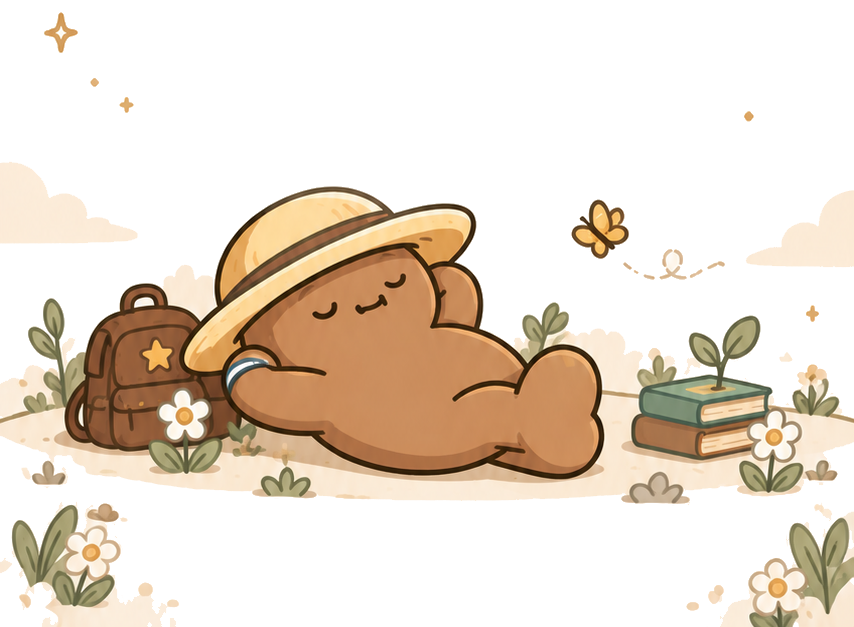
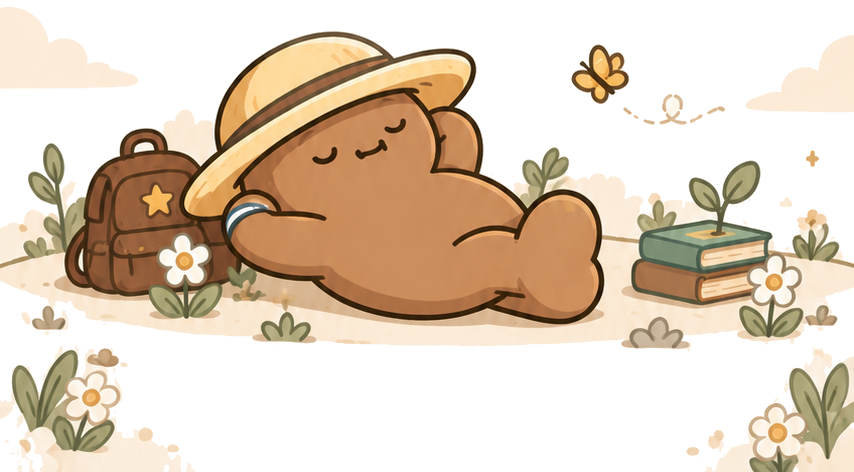
Keep the paywall mascot in frame and drop the header restore.
Restore Purchases stays in the footer only. The rest scene is cropped and reserved between the plans and the gold unlock button so the mascot stays fully visible.

diff --git a/src/features/subscription/screens/HardPaywallScreen.tsx b/src/features/subscription/screens/HardPaywallScreen.tsx
@@ -45,8 +45,7 @@ export function HardPaywallScreen() {
   const router = useRouter();
   const { isAuthenticated } = useAuth();
   const unlockNextStep = getPaywallUnlockNextStep(isAuthenticated);
-  const { available, packages, unexpectedTrial, purchasePackage, restorePurchases } =
-    useSubscription();
+  const { packages, unexpectedTrial, purchasePackage, restorePurchases } = useSubscription();
   const plans = useMemo(() => buildPaywallPlans(packages), [packages]);
   const [selectedId, setSelectedId] = useState<string | null>(
     () => peekPaywallUnlock()?.packageIdentifier ?? ANNUAL_PACKAGE_ID,
@@ -133,22 +132,6 @@ export function HardPaywallScreen() {
         style={styles.sky}
       />
       <SafeAreaView edges={['top', 'right', 'left']} style={styles.safe}>
-        <View style={styles.header}>
-          <View style={styles.headerSpacer} />
-          <Pressable
-            accessibilityRole="button"
-            accessibilityLabel="Restore Purchases"
-            disabled={busy !== null}
-            onPress={restore}
-            hitSlop={spacing.sm}
-            style={({ pressed }) => [styles.headerRestore, pressed && styles.pressed]}
-          >
-            <Text allowFontScaling maxFontSizeMultiplier={1.3} style={styles.headerRestoreLabel}>
-              {busy === 'restore' ? 'Restoring…' : 'Restore Purchases'}
-            </Text>
-          </Pressable>
-        </View>
-
         <ScrollView
           style={styles.scroll}
           contentContainerStyle={styles.scrollContent}
@@ -205,20 +188,19 @@ export function HardPaywallScreen() {
               ))}
             </View>
           )}
-
-          <PaywallRestMascot />
         </ScrollView>
 
-        <View style={{ paddingBottom: Math.max(insets.bottom, spacing.sm) + CTA_SAFE_AREA_GAP }}>
+        <PaywallRestMascot />
+
+        <View
+          style={[
+            styles.footer,
+            { paddingBottom: Math.max(insets.bottom, spacing.sm) + CTA_SAFE_AREA_GAP },
+          ]}
+        >
           {message ? (
             <Text style={styles.status} accessibilityLiveRegion="polite">
               {message}
-            </Text>
-          ) : packages.length === 0 && !unexpectedTrial ? (
-            <Text style={styles.status} accessibilityLiveRegion="polite">
-              {available
-                ? 'subscription options aren’t ready yet. try again in a moment.'
-                : 'Test Store purchases need an iOS development build. this preview cannot take payment.'}
             </Text>
           ) : null}
           <PrimaryButton
@@ -343,25 +325,6 @@ const styles = StyleSheet.create({
     flex: 1,
     paddingHorizontal: spacing.lg,
   },
-  header: {
-    minHeight: spacing.hitTarget,
-    flexDirection: 'row',
-    alignItems: 'center',
-    justifyContent: 'space-between',
-  },
-  headerSpacer: {
-    width: spacing.hitTarget,
-  },
-  headerRestore: {
-    minHeight: spacing.hitTarget,
-    justifyContent: 'center',
-    paddingLeft: spacing.sm,
-  },
-  headerRestoreLabel: {
-    ...textVariants.caption,
-    color: colors.text.secondary,
-    textDecorationLine: 'underline',
-  },
   scroll: {
     flex: 1,
     minHeight: 0,
@@ -374,7 +337,7 @@ const styles = StyleSheet.create({
   sprout: {
     flexDirection: 'row',
     alignItems: 'center',
-    marginTop: spacing.xs,
+    marginTop: spacing.md,
   },
   sproutLeaf: {
     marginLeft: -spacing.xxs,
@@ -553,6 +516,9 @@ const styles = StyleSheet.create({
     color: colors.accent.gold,
     fontWeight: fontWeights.semibold,
   },
+  footer: {
+    zIndex: 1,
+  },
   status: {
     ...textVariants.caption,
     color: colors.text.secondary,
@@ -566,6 +532,7 @@ const styles = StyleSheet.create({
     justifyContent: 'center',
     flexWrap: 'wrap',
     gap: spacing.xs,
+    paddingTop: spacing.xs,
   },
   legalLink: {
     ...textVariants.caption,

diff --git a/src/components/ui/Button/PrimaryButton.tsx b/src/components/ui/Button/PrimaryButton.tsx
@@ -31,10 +31,11 @@ export function PrimaryButton({
   tone = 'primary',
 }: PrimaryButtonProps) {
   const isGold = tone === 'gold';
-  const arrowColor = disabled
-    ? colors.action.primaryTextDisabled
-    : isGold
-      ? colors.action.saveText
+  const showDepth = isGold || !disabled;
+  const arrowColor = isGold
+    ? colors.action.saveText
+    : disabled
+      ? colors.action.primaryTextDisabled
       : colors.action.primaryText;
   return (
     <Pressable
@@ -59,10 +60,10 @@ export function PrimaryButton({
 
         return (
           <>
-            {disabled ? null : (
+            {showDepth ? (
               <View pointerEvents="none" style={[styles.lip, isGold ? styles.lipGold : null]} />
-            )}
-            {disabled ? null : (
+            ) : null}
+            {showDepth ? (
               <View
                 pointerEvents="none"
                 style={[
@@ -71,11 +72,17 @@ export function PrimaryButton({
                   isPressed ? styles.shadowPressed : null,
                 ]}
               />
-            )}
+            ) : null}
             <View
               style={[
                 styles.face,
-                disabled ? styles.faceDisabled : isGold ? styles.faceGold : styles.faceEnabled,
+                disabled
+                  ? isGold
+                    ? styles.faceGoldDisabled
+                    : styles.faceDisabled
+                  : isGold
+                    ? styles.faceGold
+                    : styles.faceEnabled,
                 isPressed ? (isGold ? styles.faceGoldPressed : styles.facePressed) : null,
               ]}
             >
@@ -84,7 +91,13 @@ export function PrimaryButton({
                 maxFontSizeMultiplier={1.4}
                 style={[
                   styles.label,
-                  disabled ? styles.labelDisabled : isGold ? styles.labelGold : styles.labelEnabled,
+                  disabled
+                    ? isGold
+                      ? styles.labelGold
+                      : styles.labelDisabled
+                    : isGold
+                      ? styles.labelGold
+                      : styles.labelEnabled,
                 ]}
               >
                 {label}
@@ -150,6 +163,9 @@ const styles = StyleSheet.create({
     backgroundColor: colors.action.primaryBackground,
   },
   faceGold: {
+    backgroundColor: colors.action.saveBackground,
+  },
+  faceGoldDisabled: {
     backgroundColor: colors.action.saveBackground,
   },
   faceDisabled: {

diff --git a/src/features/subscription/components/PaywallRestMascot.tsx b/src/features/subscription/components/PaywallRestMascot.tsx
@@ -1,22 +1,25 @@
 import { Image, StyleSheet, useWindowDimensions, View } from 'react-native';
 
 import { spacing } from '@/design-system';
+import { PAYWALL_MASCOT_ART } from '@/features/onboarding/data/onboardingAssets';
 
-const REST_MASCOT = require('../../../../assets/images/onboarding/paywall-mascot-rest.png');
 const ART_WIDTH = 854;
-const ART_HEIGHT = 627;
+const ART_HEIGHT = 472;
 const ART_ASPECT = ART_WIDTH / ART_HEIGHT;
-const MAX_HEIGHT = 200;
+const HEIGHT_FRACTION = 0.28;
+const MAX_HEIGHT = 228;
+const MIN_HEIGHT = 168;
 
 /**
- * Sleeping mascot between the paywall plans and the unlock button.
+ * Sleeping mascot reserved between the paywall plans and the unlock button.
+ * Sized from the viewport so the full rest scene stays in frame.
  */
 export function PaywallRestMascot() {
-  const { width: windowWidth } = useWindowDimensions();
-  const availableWidth = Math.round(windowWidth - spacing.lg * 2);
-  const heightFromWidth = Math.round(availableWidth / ART_ASPECT);
-  const artHeight = Math.min(MAX_HEIGHT, heightFromWidth);
-  const artWidth = Math.round(artHeight * ART_ASPECT);
+  const { width: windowWidth, height: windowHeight } = useWindowDimensions();
+  const maxHeight = Math.min(MAX_HEIGHT, Math.round(windowHeight * HEIGHT_FRACTION));
+  const heightFromWidth = Math.round(windowWidth / ART_ASPECT);
+  const artHeight = Math.max(MIN_HEIGHT, Math.min(maxHeight, heightFromWidth));
+  const artWidth = Math.min(windowWidth, Math.round(artHeight * ART_ASPECT));
 
   return (
     <View
@@ -26,7 +29,7 @@ export function PaywallRestMascot() {
       style={styles.wrap}
     >
       <Image
-        source={REST_MASCOT}
+        source={PAYWALL_MASCOT_ART}
         resizeMode="contain"
         accessibilityElementsHidden
         importantForAccessibility="no"
@@ -38,8 +41,13 @@ export function PaywallRestMascot() {
 
 const styles = StyleSheet.create({
   wrap: {
+    flexGrow: 0,
+    flexShrink: 0,
+    width: '100%',
+    marginHorizontal: -spacing.lg,
     alignItems: 'center',
-    marginTop: spacing.sm,
+    justifyContent: 'flex-end',
+    overflow: 'visible',
     pointerEvents: 'none',
   },
 });
